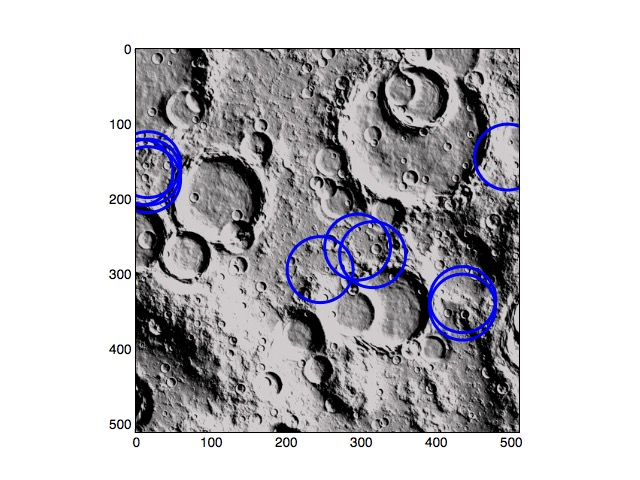
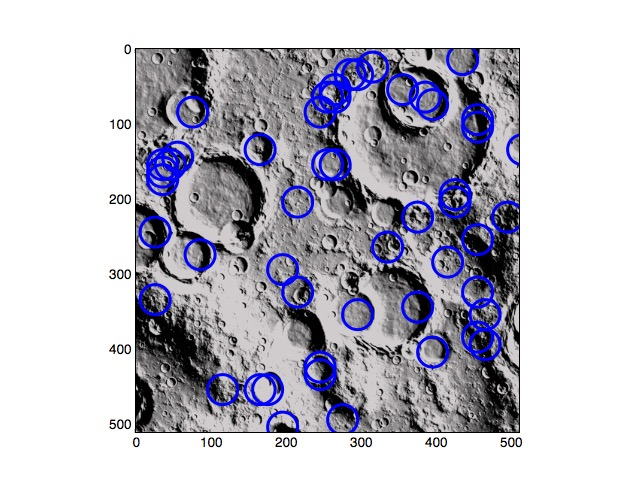
q1 done

diff --git a/HW1/Q1.py b/HW1/Q1.py
@@ -1,3 +1,4 @@
+import math
 from heplers import storeBestCircle, hough, roundAngle, supressNonMax, thresholding, getImageGradientandTheta
 
 __author__ = 'muhammadkhadafi'
@@ -24,7 +25,7 @@ def detectCircles(im, radius, usegradient):
     print ("finish suppress " + im)
 
     if usegradient:
-        threshold = 1.33*np.median(image)
+        threshold = 1.33*np.median(image_suppressed[image_suppressed != 0])
     else:
         threshold = 0
 
@@ -32,11 +33,11 @@ def detectCircles(im, radius, usegradient):
     image_edges = thresholding(image_suppressed, threshold)
     print ("finish threshold " + im)
 
-    hough_bins = hough(image_edges, radius)
+    hough_bins = hough(image_edges, round_theta, radius)
     print ("finish hough " + im)
 
     # circles_center = np.copy(hough_bins)
-    circles_center = storeBestCircle(hough_bins, 20)
+    circles_center = storeBestCircle(hough_bins, 50)
     print ("finish circles " + im)
 
     return circles_center
@@ -58,10 +59,10 @@ def drawHoughSpace(im, radius):
     image_gradient, image_theta = getImageGradientandTheta(blurred_image)
     round_theta = roundAngle(image_theta)
     image_suppressed = supressNonMax(image_gradient, round_theta)
-    threshold = 1.33*np.median(image)
+    threshold = 1.33*np.median(image_suppressed[image_suppressed != 0])
     image_edges = thresholding(image_suppressed, threshold)
 
-    hough(image_edges, radius, 1, True)
+    hough(image_edges, round_theta, radius, 1, True)
     print ("finish hough " + im)
 
 
@@ -71,13 +72,13 @@ def drawDifferentQuant(im, radius, quant):
     image_gradient, image_theta = getImageGradientandTheta(blurred_image)
     round_theta = roundAngle(image_theta)
     image_suppressed = supressNonMax(image_gradient, round_theta)
-    threshold = 1.33*np.median(image)
+    threshold = 1.33*np.median(image_suppressed[image_suppressed != 0])
     image_edges = thresholding(image_suppressed, threshold)
     print "got edges"
 
     for each_quant in quant:
-        hough_bins = hough(image_edges, radius, each_quant)
-        circles_center = storeBestCircle(hough_bins, 10)
+        hough_bins = hough(image_edges, round_theta, radius, each_quant)
+        circles_center = storeBestCircle(hough_bins, 50)
         drawCircles(im, circles_center, radius, each_quant)
         print "finish hough quant " + str(each_quant)
 
@@ -88,20 +89,36 @@ def detectAllCircles(im):
     image_gradient, image_theta = getImageGradientandTheta(blurred_image)
     round_theta = roundAngle(image_theta)
     image_suppressed = supressNonMax(image_gradient, round_theta)
-    threshold = 1.33*np.median(image)
+    threshold = 1.33*np.median(image_suppressed[image_suppressed != 0])
+    print threshold
     image_edges = thresholding(image_suppressed, threshold)
 
-    hough_bins = hough(image_edges)
+    hough_bins = hough(image_edges, round_theta)
 
     bestCircles = ([])
 
-    for x in range(20):
+    counter = 0
+    while True:
+        if counter == 50:
+            break
         loc = np.where(hough_bins == hough_bins.max())
-        circle = [loc[1][0], loc[0][0], loc[2][0]]
-        bestCircles = np.append(bestCircles, circle)
-        hough_bins[loc[0][0], loc[1][0], loc[2][0]] = 0
+        circumference = 2*math.pi*loc[2][0]
+        if circumference / hough_bins[loc[0][0], loc[1][0], loc[2][0]] > 4:
+            hough_bins[loc[0][0], loc[1][0], loc[2][0]] = 0
+            continue
+        else:
+            circle = [loc[1][0], loc[0][0], loc[2][0]]
+            bestCircles = np.append(bestCircles, circle)
+            hough_bins[loc[0][0], loc[1][0], loc[2][0]] = 0
+            counter += 1
+    # for x in range(20):
+    #     print hough_bins.max()
+    #     loc = np.where(hough_bins == hough_bins.max())
+    #     circle = [loc[1][0], loc[0][0], loc[2][0]]
+    #     bestCircles = np.append(bestCircles, circle)
+    #     hough_bins[loc[0][0], loc[1][0], loc[2][0]] = 0
 
-    bestCircles.shape = (20, 3)
+    bestCircles.shape = (50, 3)
 
     return bestCircles
 
@@ -116,44 +133,53 @@ def drawAllCircles(im, circles):
     plt.savefig(im.split(".")[0] + "_all_circles.jpg")
 
 if __name__ == "__main__":
-    centers = detectCircles('MoonCraters.jpg', 20, True)
-    drawCircles('MoonCraters.jpg', centers, 20)
-    print "best 20 circle radius 20 list - moon crater"
-    print centers
-    print "------"
+    # centers = detectCircles('MoonCraters.jpg', 20, True)
+    # drawCircles('MoonCraters.jpg', centers, 20)
+    # print "best 20 circle radius 20 list - moon crater"
+    # print centers
+    # print "------"
+    #
+    # centers = detectCircles('colorful3.png', 40, True)
+    # drawCircles('colorful3.png', centers, 40)
+    # print "best 20 circle radius 40 list - colorful 3"
+    # print centers
+    # print "------"
+    #
+    # centers = detectCircles('ladybug.jpg', 45, True)
+    # drawCircles('ladybug.jpg', centers, 45)
+    # print "best 20 circle radius 20 list - ladybug"
+    # print centers
+    # print "------"
+    #
+    # centers = detectCircles('colorful2.jpg', 45, True)
+    # drawCircles('colorful2.jpg', centers, 45)
+    # print "best 20 circle radius 45 list - colorful 2"
+    # print centers
+    # print "------"
 
-    centers = detectCircles('colorful3.png', 40, True)
-    drawCircles('colorful3.png', centers, 40)
-    print "best 20 circle radius 40 list - colorful 3"
-    print centers
-    print "------"
-
-    # TODO - find better threshold
-    centers = detectCircles('ladybug.jpg', 20, True)
-    drawCircles('ladybug.jpg', centers, 20)
-    print "best 20 circle radius 20 list - ladybug"
-    print centers
-    print "------"
-    
-    centers = detectCircles('colorful2.jpg', 45, True)
-    drawCircles('colorful2.jpg', centers, 45)
-    print "best 20 circle radius 45 list - colorful 2"
-    print centers
-    print "------"
-
-    centers = detectCircles('Planets.jpeg', 150, True)
-    drawCircles('Planets.jpeg', centers, 150)
+    centers = detectCircles('Planets.jpeg', 300, True)
+    drawCircles('Planets.jpeg', centers, 300)
     print "best 20 circle radius 150 list - planets"
     print centers
     print "------"
 
-    # TODO - too many lines right now, can't see nothing
-    drawHoughSpace('MoonCraters.jpg', 20)
+    # # TODO - too many lines right now, can't see nothing
+    # drawHoughSpace('MoonCraters.jpg', 20)
+    #
+    # drawDifferentQuant('MoonCraters.jpg', 20, [1, 10, 20])
 
-    drawDifferentQuant('MoonCraters.jpg', 44, [1, 10, 100])
-
-    # TODO - probably still wrong, need to check with actual pictures
+    # # TODO - probably still wrong, need to check with actual pictures
     centers_with_radius = detectAllCircles('MoonCraters.jpg')
-    print "best 20 circle all radius list - planets"
+    print "best 20 circle all radius list - moon"
     print centers_with_radius
     drawAllCircles('MoonCraters.jpg', centers_with_radius)
+
+    centers_with_radius = detectAllCircles('colorful3.png')
+    print "best 20 circle all radius list - moon"
+    print centers_with_radius
+    drawAllCircles('colorful3.png', centers_with_radius)
+    #
+    # centers_with_radius = detectAllCircles('Planets.jpeg')
+    # print "best 20 circle all radius list - planets"
+    # print centers_with_radius
+    # drawAllCircles('Planets.jpeg', centers_with_radius)

diff --git a/HW1/heplers.py b/HW1/heplers.py
@@ -19,20 +19,21 @@ def getImageGradientandTheta(im):
     return image_gradient, image_theta
 
 
-def storeBestCircle(hough, number):
+def storeBestCircle(hough_bins, number):
     bestCircles = ([])
 
     for x in range(number):
-        loc = np.where(hough == hough.max())
+        loc = np.where(hough_bins == hough_bins.max())
         circle = [loc[1][0], loc[0][0]]
         bestCircles = np.append(bestCircles, circle)
-        hough[loc[0][0], loc[1][0]] = 0
+        print hough_bins[loc[0][0], loc[1][0]]
+        hough_bins[loc[0][0], loc[1][0]] = 0
 
     bestCircles.shape = (number, 2)
     return bestCircles
 
 
-def hough(im, r=0, bins=1, draw=False):
+def hough(im, thet, r=0, bins=1, draw=False):
     if draw:
         plt.clf() # clear the figure
 
@@ -47,6 +48,7 @@ def hough(im, r=0, bins=1, draw=False):
 
     for x in range(im.shape[0]):
         for y in range(im.shape[1]):
+            xy_angle = thet[x, y]
             if im[x, y] == 1:
                 if draw:
                     hough_x = ([])
@@ -57,13 +59,18 @@ def hough(im, r=0, bins=1, draw=False):
                             domain = (x-x0)*(x-x0) + (y-y0)*(y-y0)
                             if domain < 0:
                                 continue
-                            radius= math.sqrt(domain)
-                            hough_bins[x0, y0, int(round(radius))] += 1
+                            radius = math.sqrt(domain)
+                            angle = roundSingleAngle(math.atan2((y0-y), (x0-x)) * 180 / math.pi)
+                            if angle == xy_angle:
+                                hough_bins[x0, y0, int(round(radius))] += 1
                     else:
                         if r*r - (x-x0)*(x-x0) < 0:
                             continue
                         y0 = y - math.sqrt(r*r - (x-x0)*(x-x0))
-                        hough_bins[x0 / bins, int(round(y0)) / bins] += 1
+                        y0 = int(round(y0))
+                        angle = roundSingleAngle(math.atan2((y0-y), (x0-x)) * 180 / math.pi)
+                        if angle == xy_angle:
+                            hough_bins[x0 / bins, y0 / bins] += 1
 
                     if draw:
                         hough_x = np.append(hough_x, x0)
@@ -74,6 +81,17 @@ def hough(im, r=0, bins=1, draw=False):
     if draw:
         plt.savefig("hough_space.jpg")
     return hough_bins
+
+
+def roundSingleAngle(single_angle):
+    if -22.5 < single_angle < 22.5 or single_angle > 157.5 or single_angle < -157.5:
+        return 0
+    elif 22.5 <= single_angle <= 67.5 or -157.5 <= single_angle <= -112.5:
+        return 135
+    elif 67.5 < single_angle < 112.5 or -112.5 < single_angle < -67.5:
+        return 90
+    else:
+        return 45
 
 
 def roundAngle(angle_array):
